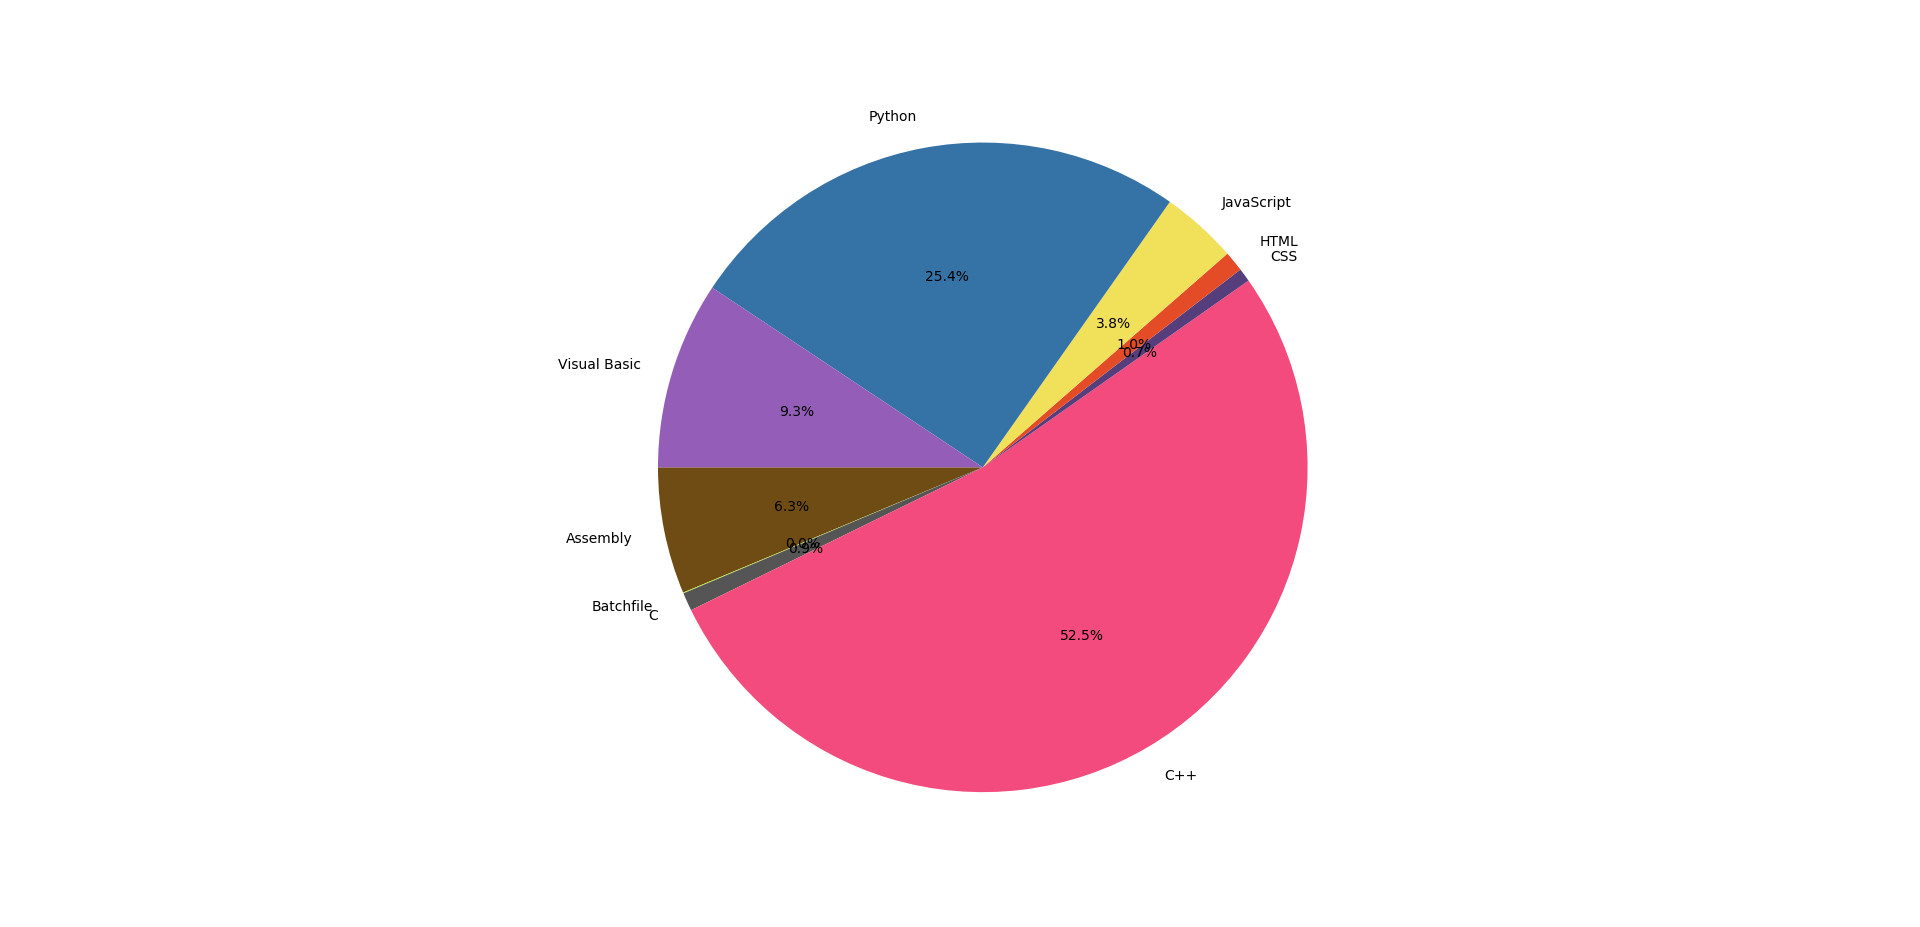
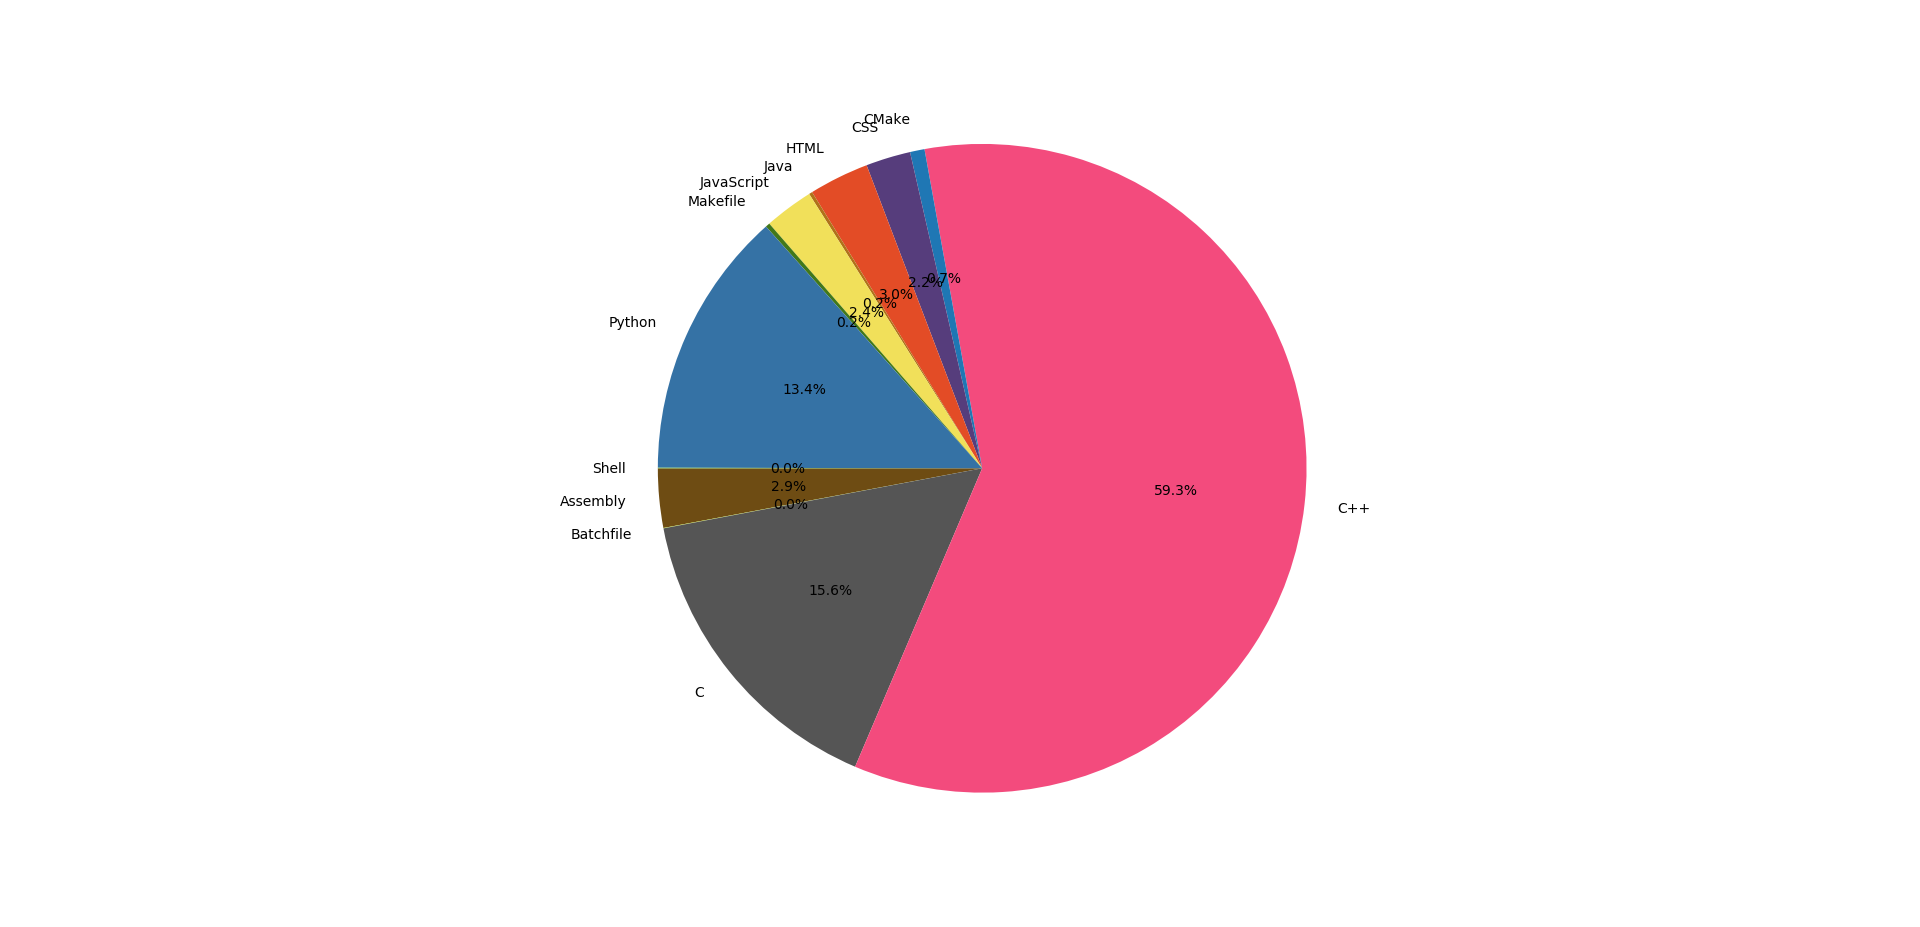
Replaced HTTPRequests with Github3 Python library
Closes #3

Changed region(s): [[0.2812, 0.1208, 0.6875, 0.8457], [0.5938, 0.5135, 0.625, 0.5437]]

diff --git a/github-pie-chart.py b/github-pie-chart.py
@@ -1,44 +1,27 @@
-import urllib.request
-import collections
+from collections import OrderedDict
 import json
 import matplotlib.pyplot as plt
+import github3
 
-username = "Educorreia932"
+token_file = "token.txt"
 repositories = []
 languages = {}
 
-url = "https://api.github.com/users/" + username + "/repos"
+with open(token_file) as f:
+        my_token = f.read()
 
 #Get repository list
-request = urllib.request.Request(url, headers = {'Accept': 'application/vnd.github.v3+json'})
-response = urllib.request.urlopen(request)
-content = response.read().decode('utf-8')
+gh = github3.login(token = my_token)
 
-false = False
-true = True
-null = None
-
-temp = eval(content)
-
-#Get urls to each repositories languages page
-for i in range(len(temp)):
-    repositories.append(temp[i]["languages_url"])
-    
-for repo_url in repositories:
-    request = urllib.request.Request(repo_url)
-    response = urllib.request.urlopen(request)
-    content = response.read().decode('utf-8')
-    
-    temp = eval(content)
-    
-    for key in temp:
-        if key not in languages:
-            languages[key] = temp[key]
+for repo in gh.repositories(type='owner'):
+    for l in repo.languages():
+        if l[0] not in languages:
+            languages[l[0]] = l[1]
             
         else:
-            languages[key] += temp[key]
-    
-languages = dict(collections.OrderedDict(sorted(languages.items())))
+            languages[l[0]] += l[1]
+
+languages = dict(OrderedDict(sorted(languages.items())))
 
 #Retrieve languages color
 colors = []
